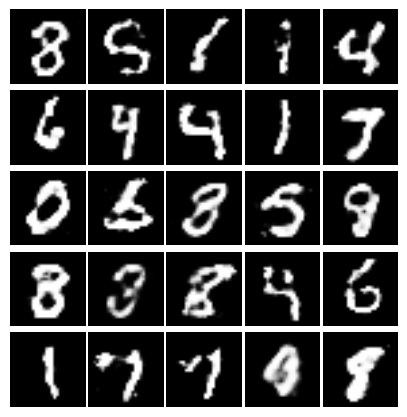
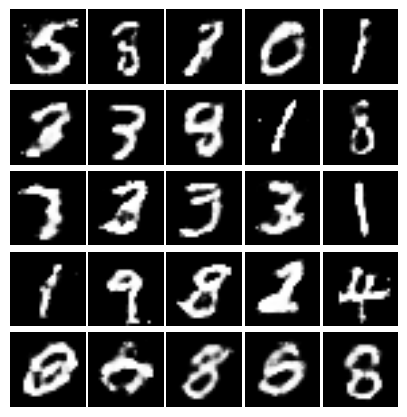
Initial GAN: minor changes

diff --git a/GAN/originalGAN.py b/GAN/originalGAN.py
@@ -7,12 +7,13 @@ import matplotlib.pyplot as plt
 import os
 import matplotlib.gridspec as gridspec
 
+
 mnist = input_data.read_data_sets('MNIST_data', one_hot=True)
 
 # *** GENERATING LATENT VARIABLES ***
 
 def LatentVariables(batch_size):
-    return np.random.uniform(-1, 1, size=(batch_size, 100))
+    return np.random.normal(0.0, 1.0, size=(batch_size, 100))
 
 # *** PLOTTING SAMPLES ***
 def plot(samples):
@@ -63,27 +64,33 @@ discriminator_params = [d_w1, d_b1, d_w2, d_b2]
 
 def Discriminator(x):
     d1 = tf.nn.relu(tf.matmul(x, d_w1) + d_b1)
-    D = tf.nn.sigmoid(tf.matmul(d1, d_w2) + d_b2)
-    return D
+    D_logit = tf.matmul(d1, d_w2) + d_b2
+    D = tf.nn.sigmoid(D_logit)
+    return D, D_logit
 
 G = Generator(z)
-D_real_sample = Discriminator(x)
-D_generated_sample = Discriminator(G)
+D_real_sample, D_logit_real_sample = Discriminator(x)
+D_generated_sample, D_logit_generated_sample = Discriminator(G)
 
-discriminator_loss = -tf.reduce_mean(tf.log(D_real_sample) + tf.log(1 - D_generated_sample))
-generator_loss = -tf.reduce_mean(tf.log(D_generated_sample))
+
+D_loss_real = tf.reduce_mean(tf.nn.sigmoid_cross_entropy_with_logits(logits=D_logit_real_sample, labels=tf.ones_like(D_real_sample)))
+D_loss_generated = tf.reduce_mean(tf.nn.sigmoid_cross_entropy_with_logits(logits=D_logit_generated_sample, labels=tf.zeros_like(D_generated_sample)))
+
+discriminator_loss = D_loss_real + D_loss_generated
+
+generator_loss = tf.reduce_mean(tf.nn.sigmoid_cross_entropy_with_logits(logits=D_logit_generated_sample, labels=tf.ones_like(D_generated_sample)))
 
 train_D = tf.train.GradientDescentOptimizer(0.01).minimize(discriminator_loss, var_list = discriminator_params)
 train_G = tf.train.AdamOptimizer().minimize(generator_loss, var_list = generator_params)
 
 config = tf.ConfigProto()
-config.gpu_options.allocator_type="BFC"
+config.gpu_options.per_process_gpu_memory_fraction = 0.8
 
 sess = tf.InteractiveSession(config=config)
 sess.run(tf.global_variables_initializer())
 
-num_iters = 150000
-batch_size = 550
+num_iters = 150001
+batch_size = 500
 
 if not os.path.exists('generated_samples/'):
     os.makedirs('generated_samples/')
